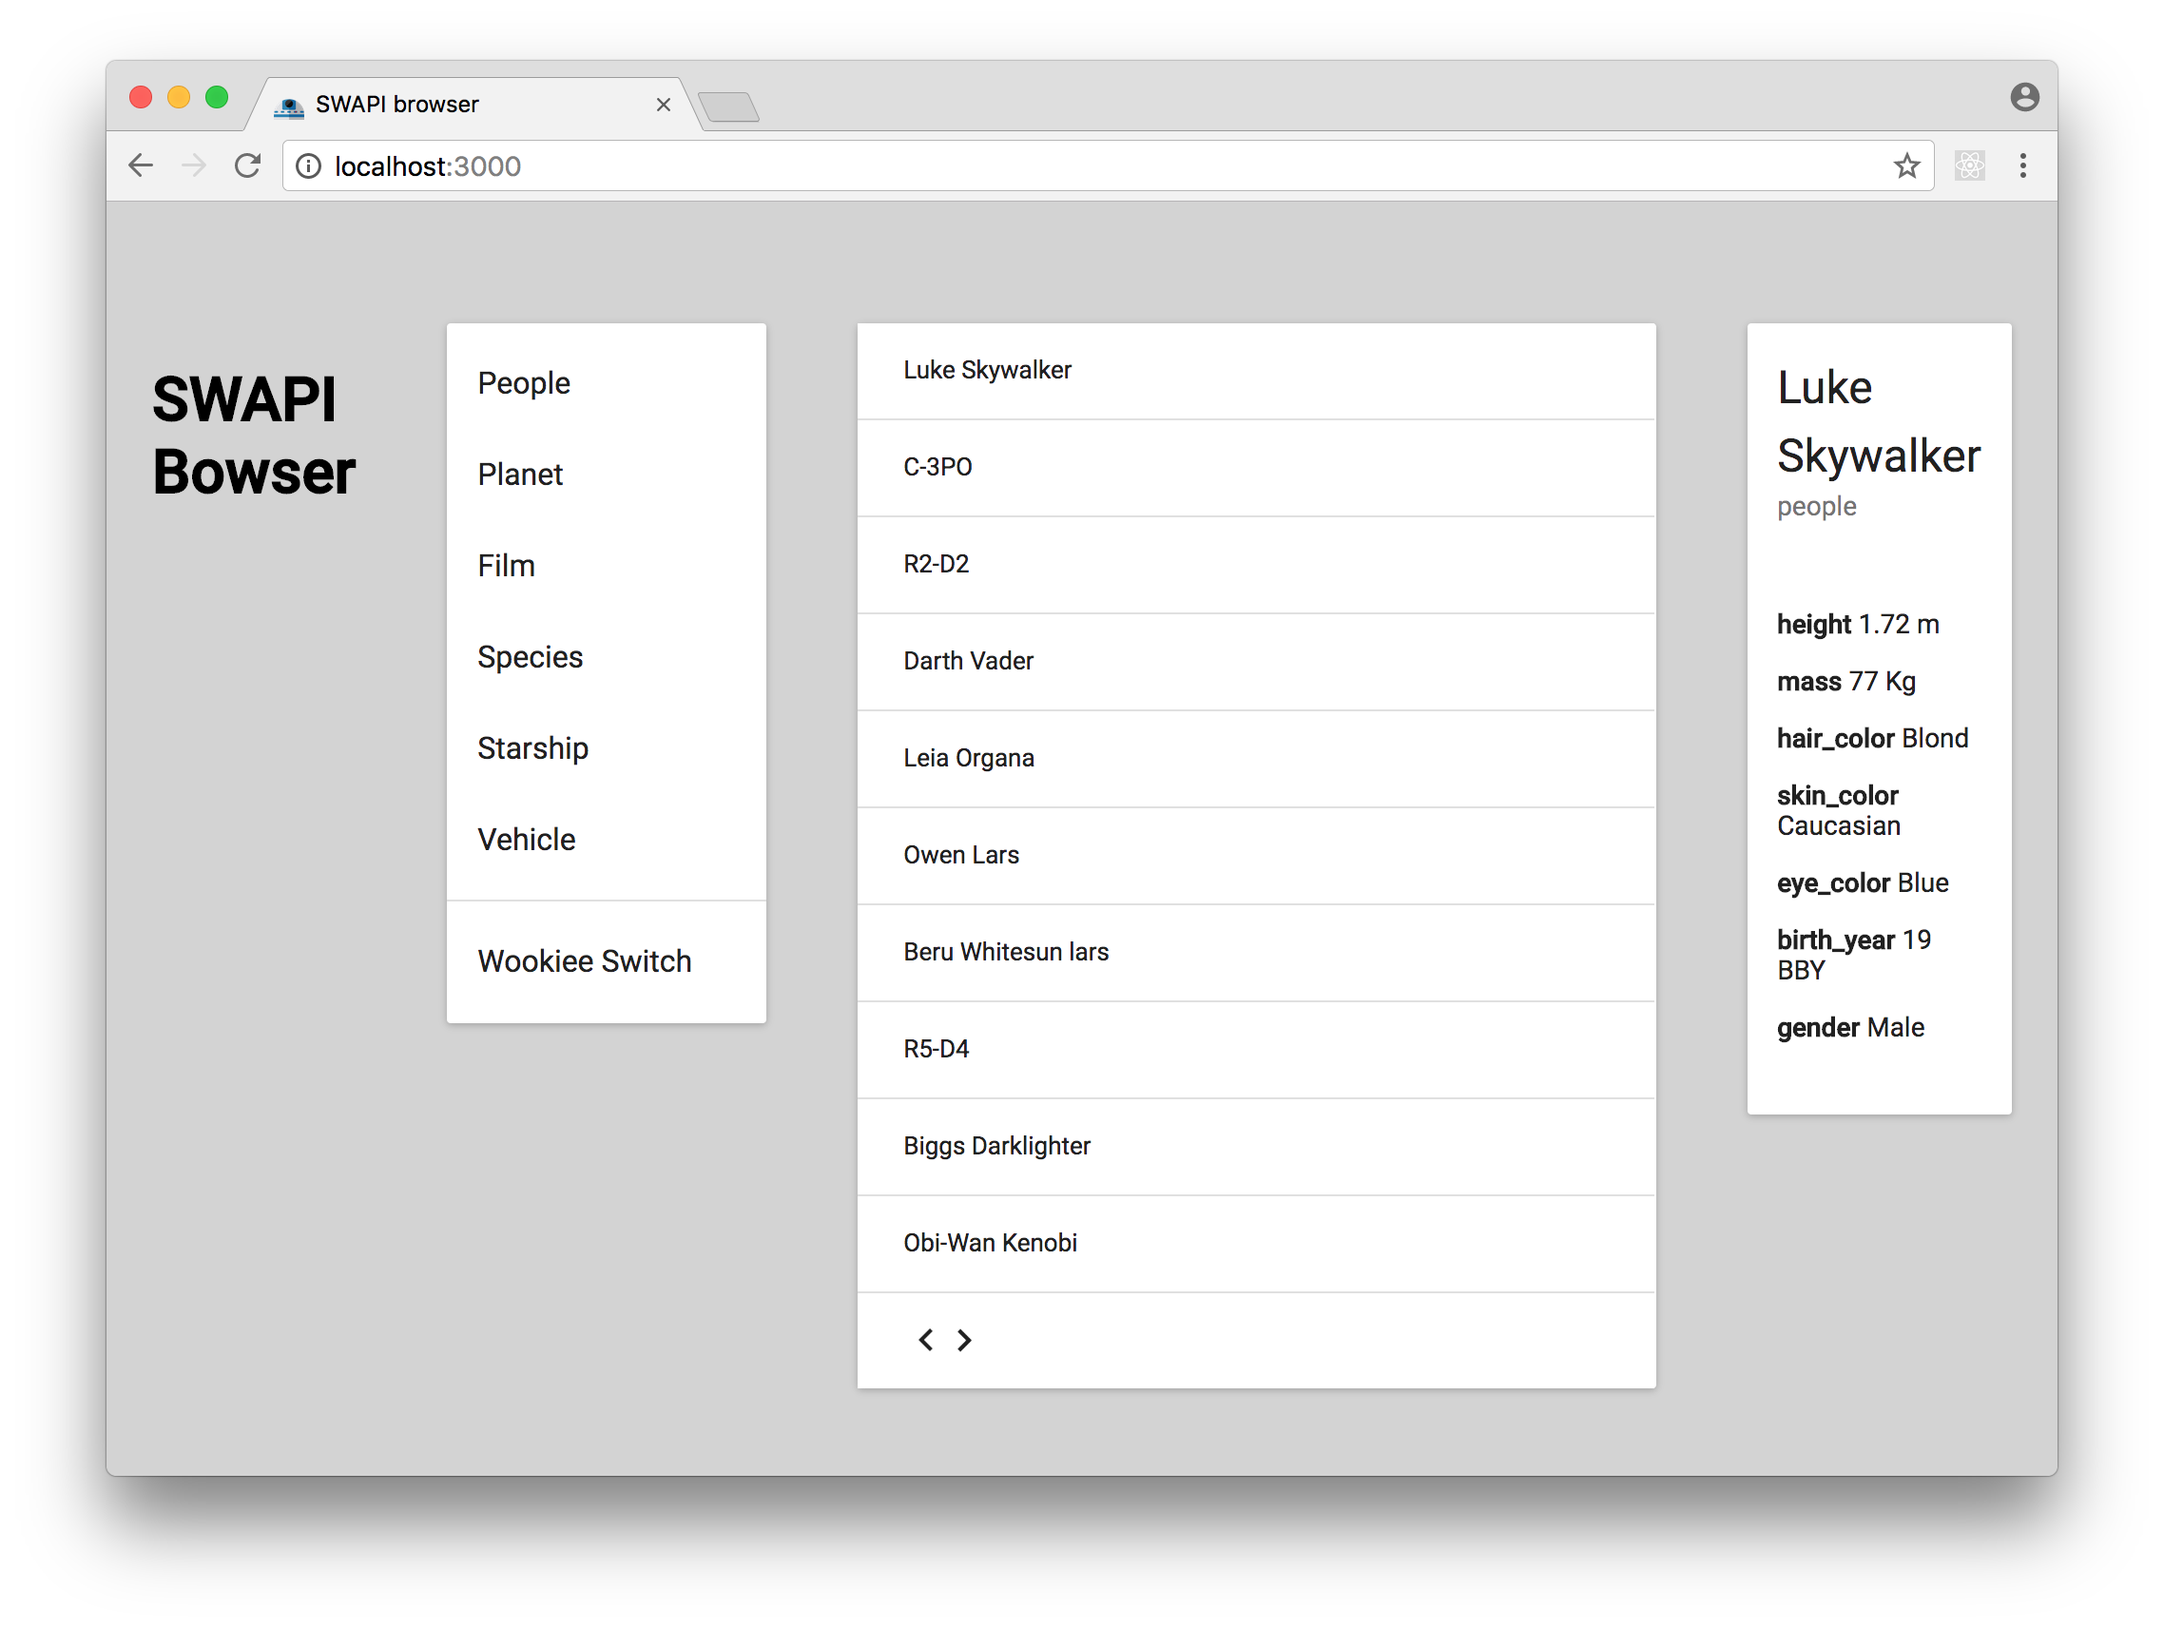
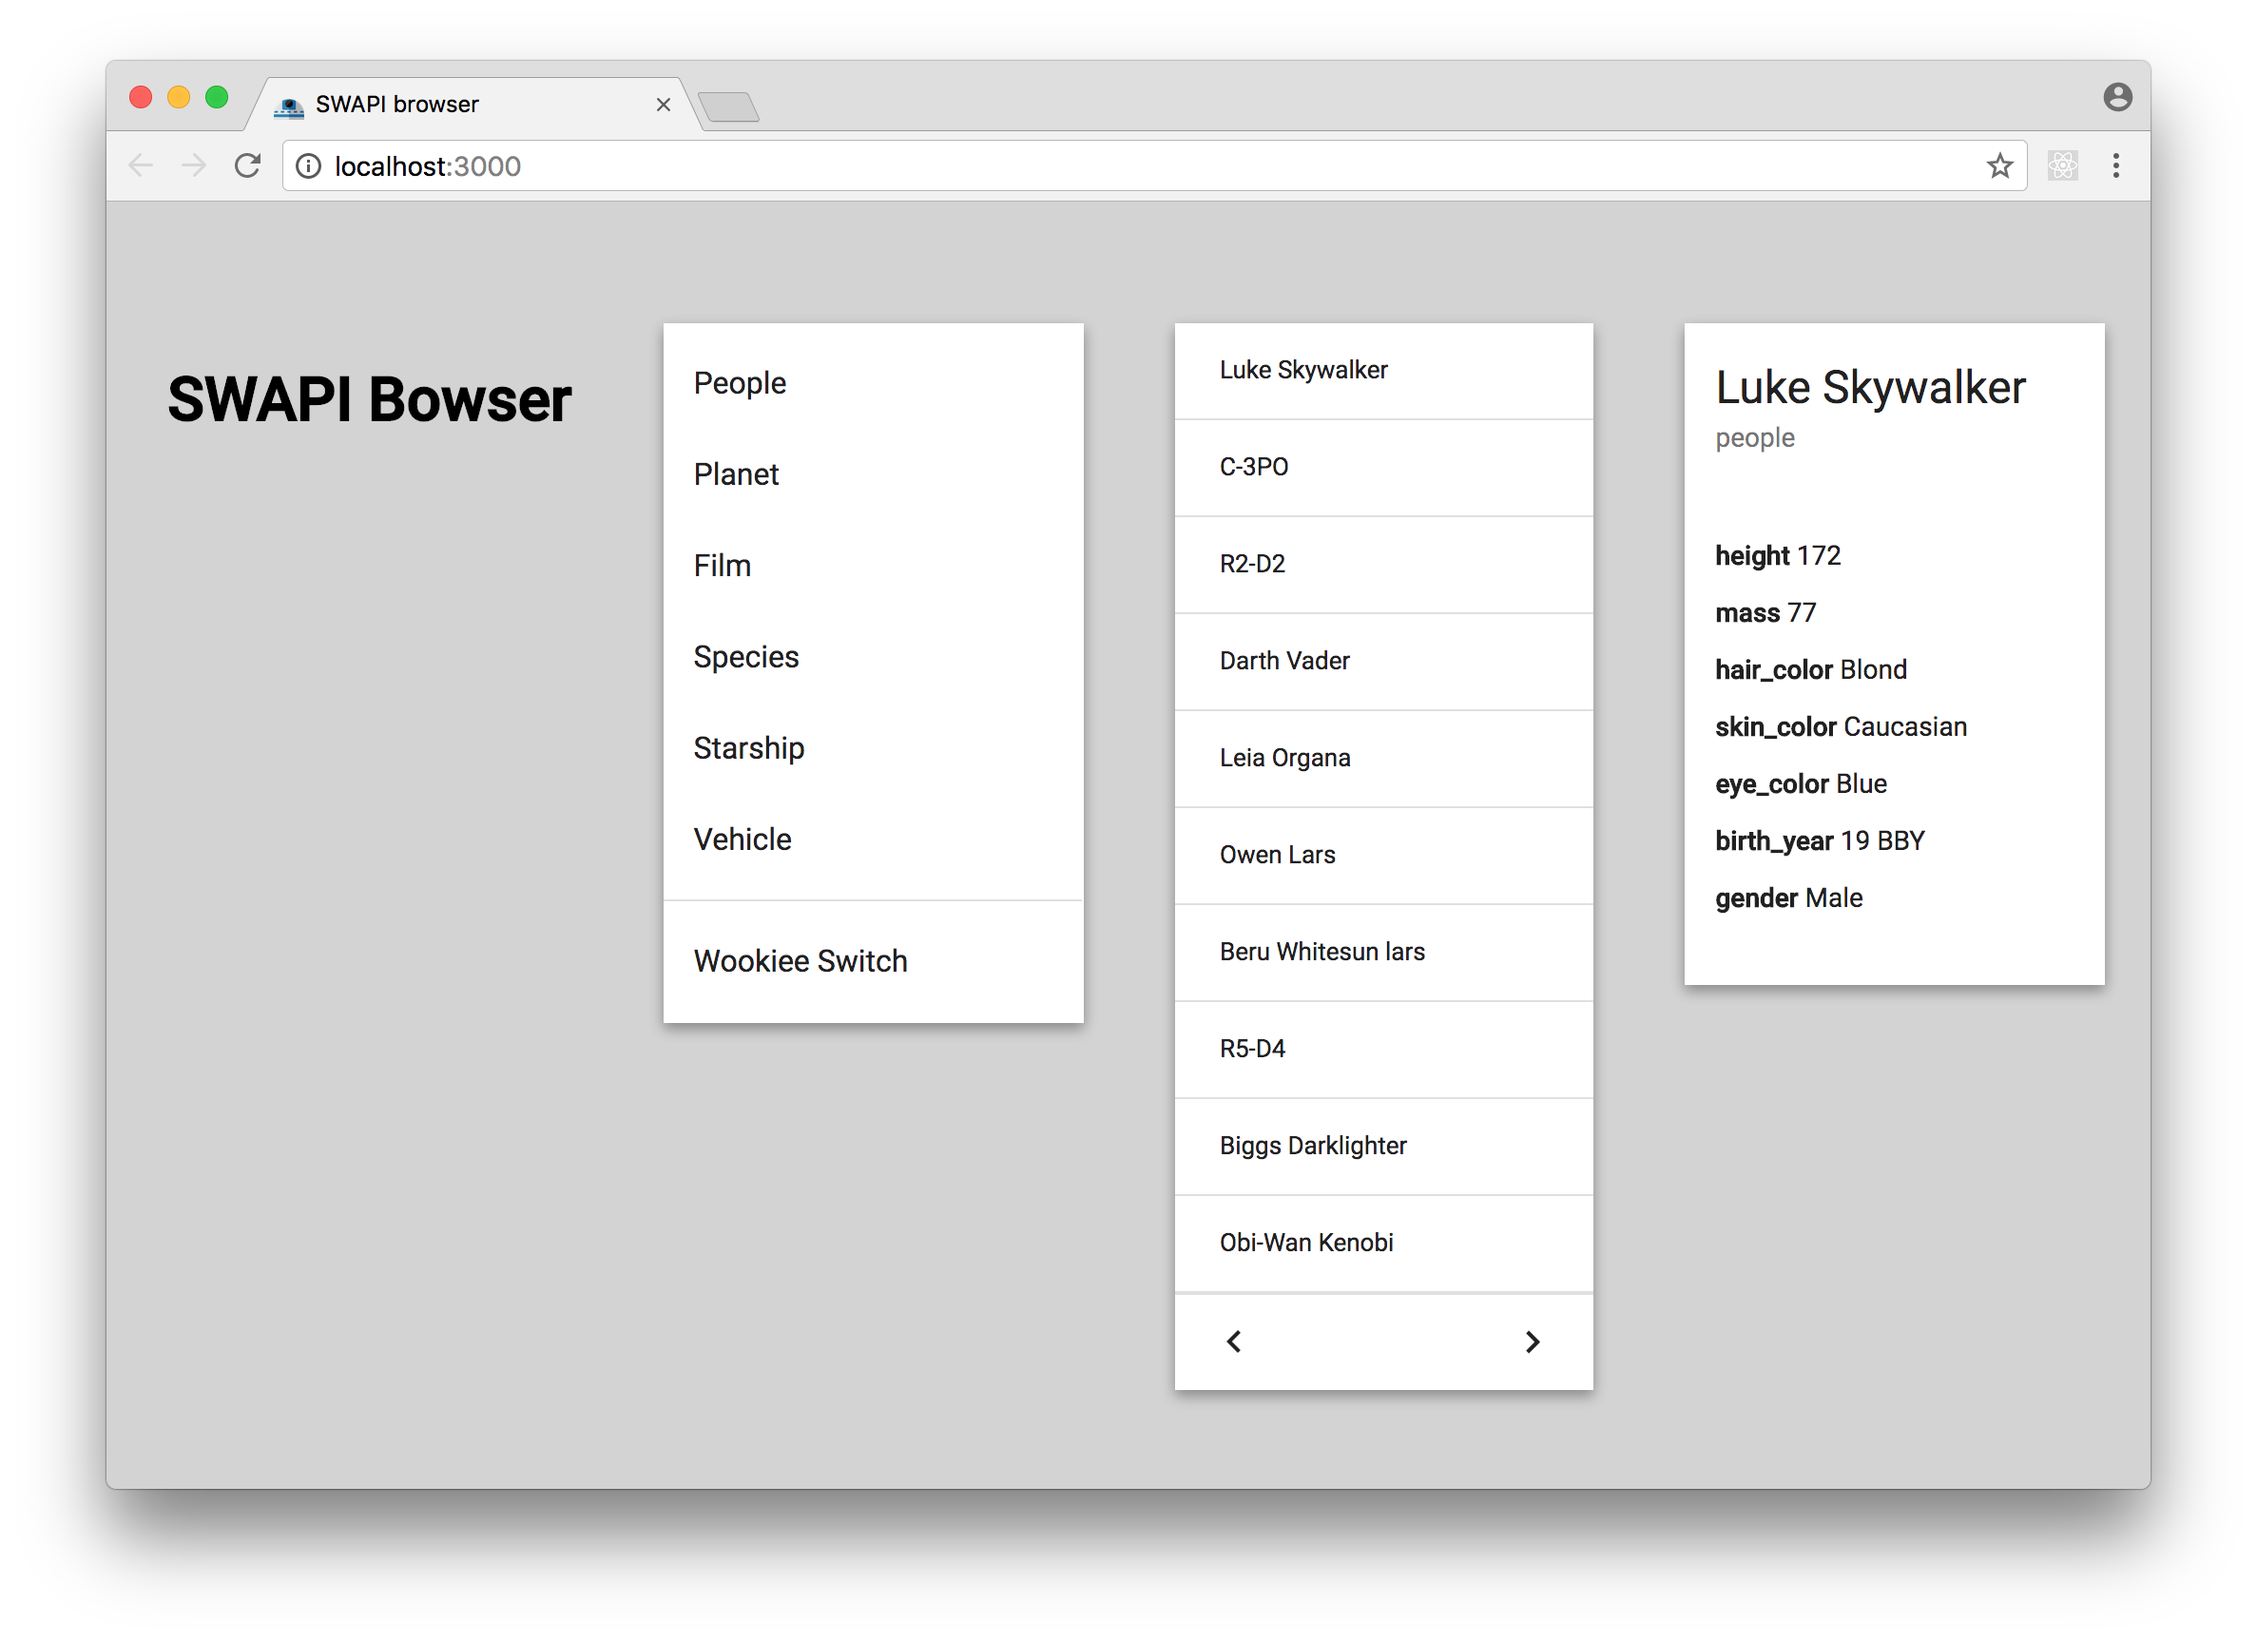
refactor classes

Changed region(s): [[0.0624, 0.1857, 0.9359, 0.8668], [0.0312, 0.031, 0.967, 0.1238], [0.9359, 0.031, 0.967, 0.0619]]

diff --git a/src/App.js b/src/App.js
@@ -4,10 +4,10 @@ import MuiThemeProvider from 'material-ui/styles/MuiThemeProvider';
 
 import AppMenu from './AppMenu';
 import AppTitle from './AppTitle';
-import DataTable from './DataTable';
+import AppTable from './AppTable';
 import AppDetails from './AppDetails';
 
-const flexboxContainer={
+const flexboxContainerStyle={
   width:'100%',
   display: 'inline-flex',
   flexDirection: 'row',
@@ -22,7 +22,7 @@ const containersStyle={
   // borderbox?
   minWidth: '10em',
   maxWidth:'250px',
-  margin: '4em 1.5em 0em 1.5em',
+  margin: '4em 1.5em 1.5em 1.5em',
   flexGrow: '1',
   flexBasis:'0',
 }
@@ -34,11 +34,15 @@ class App extends Component {
   render() {
     return (
       <MuiThemeProvider>
-        <div style={flexboxContainer}>
-          <AppTitle containersStyle={containersStyle} rounded={rounded} zDepth={zDepth}/>
-          <AppMenu containersStyle={containersStyle} rounded={rounded} zDepth={zDepth}/>
-          <DataTable containersStyle={containersStyle} rounded={rounded} zDepth={zDepth}/>
-          <AppDetails containersStyle={containersStyle} rounded={rounded} zDepth={zDepth}/>
+        <div style={flexboxContainerStyle}>
+          <AppTitle
+            containersStyle={containersStyle} rounded={rounded} zDepth={zDepth}/>
+          <AppMenu
+            containersStyle={containersStyle} rounded={rounded} zDepth={zDepth}/>
+          <AppTable
+            containersStyle={containersStyle} rounded={rounded} zDepth={zDepth}/>
+          <AppDetails
+            containersStyle={containersStyle} rounded={rounded} zDepth={zDepth}/>
         </div>
       </MuiThemeProvider>
     );
@@ -46,3 +50,5 @@ class App extends Component {
 }
 
 export default App;
+
+//TODO pass the containerStyle directly here ?

diff --git a/src/AppMenu.js b/src/AppMenu.js
@@ -2,8 +2,11 @@ import React, { Component } from 'react';
 
 import Paper from 'material-ui/Paper';
 import Menu from 'material-ui/Menu';
-import MenuItem from 'material-ui/MenuItem';
 import Divider from 'material-ui/Divider';
+
+import { categories } from './constants';
+import AppMenuItem from './AppMenuItem';
+import AppMenuWookieeSwitch from './AppMenuWookieeSwitch';
 
 const style = {
   maxWidth: '100%',
@@ -11,18 +14,18 @@ const style = {
 
 class AppMenu extends Component {
   render() {
+
+  	const menuCategories = categories.map((categorie, index) =>
+  		<AppMenuItem key={index} categorie={categorie}/>
+  	);
+
     return (
       <div style={this.props.containersStyle}>
 		    <Paper rounded={this.props.rounded} zDepth={this.props.zDepth}>
 		      <Menu style={style}>
-		        <MenuItem primaryText="People" />
-						<MenuItem primaryText="Planet" />
-						<MenuItem primaryText="Film" />
-						<MenuItem primaryText="Species" />
-						<MenuItem primaryText="Starship" />
-						<MenuItem primaryText="Vehicle" />
+		      	{menuCategories}
        			<Divider />
-						<MenuItem primaryText="Wookiee Switch" disabled={true}/>
+            <AppMenuWookieeSwitch />
 		      </Menu>
 		    </Paper>
       </div>

diff --git a/src/AppTable.js b/src/AppTable.js
@@ -1,0 +1,38 @@
+import React, { Component } from 'react';
+
+import {Table, TableBody, TableFooter, TableRow} from 'material-ui/Table';
+import Paper from 'material-ui/Paper';
+
+import MookData from './MookData';
+import AppTableEntrie from './AppTableEntrie';
+import AppTableButtons from './AppTableButtons';
+
+class AppTable extends Component {
+  render() {
+
+		const Entries = MookData.results.map((entrie, index) =>
+	  	<AppTableEntrie key={index} entrie={entrie}/>
+		);
+
+    return (
+      <div style={this.props.containersStyle}>
+      	<Paper rounded={this.props.rounded} zDepth={this.props.zDepth}>
+				  <Table>
+				  	<TableBody displayRowCheckbox={false} >
+				  		{Entries}
+				    </TableBody>
+				 		<TableFooter adjustForCheckbox={false}>
+				 			<TableRow>
+				 				<AppTableButtons />
+				 			</TableRow>
+				 		</TableFooter>
+				   </Table>
+				</Paper>
+      </div>
+    );
+  }
+}
+
+export default AppTable;
+
+//<IconButton iconClassName="muidocs-icon-custom-github" />

diff --git a/src/AppTableButtons.js b/src/AppTableButtons.js
@@ -1,0 +1,34 @@
+import React, { Component } from 'react';
+
+import {TableRowColumn} from 'material-ui/Table';
+import IconButton from 'material-ui/IconButton';
+import {HardwareKeyboardArrowLeft, HardwareKeyboardArrowRight} from 'material-ui/svg-icons/index'
+
+const arrowsStyle = {
+}
+
+const TableRowColumnStyle = {
+	display:'flex',
+ 	flexDirection: 'row',
+ 	flexWrap: 'nowrap',
+  justifyContent: 'space-between',
+  paddingLeft: '0.6em',
+  paddingRight: '0.6em'
+}
+
+class AppTableButtons extends Component {
+  render() {
+    return (
+			<TableRowColumn style={TableRowColumnStyle}>
+		    <IconButton style={arrowsStyle}>
+		    	<HardwareKeyboardArrowLeft />
+		    </IconButton>
+		    <IconButton style={arrowsStyle}>
+		    	<HardwareKeyboardArrowRight />
+		    </IconButton>
+			</TableRowColumn>
+    );
+  }
+}
+
+export default AppTableButtons;

diff --git a/src/AppDetails.js b/src/AppDetails.js
@@ -9,8 +9,8 @@ class AppDetails extends Component {
       	<Card rounded={this.props.rounded} zDepth={this.props.zDepth}>
       	  <CardTitle title="Luke Skywalker" subtitle="people" />
 		      <CardText>
-			      <p><b>height</b> 1.72 m</p>
-			      <p><b>mass</b> 77 Kg</p>
+			      <p><b>height</b> 172</p>
+			      <p><b>mass</b> 77</p>
 			      <p><b>hair_color</b> Blond</p>
 			      <p><b>skin_color</b> Caucasian</p>
 			      <p><b>eye_color</b> Blue</p>
@@ -24,3 +24,5 @@ class AppDetails extends Component {
 }
 
 export default AppDetails;
+
+//TODO use material ui lists ?

diff --git a/src/AppMenuWookieeSwitch.js b/src/AppMenuWookieeSwitch.js
@@ -1,0 +1,17 @@
+import React, { Component } from 'react';
+
+import MenuItem from 'material-ui/MenuItem';
+
+const style = {
+};
+
+class AppMenuWookieeSwitch extends Component {
+  render() {
+    return (
+		      <MenuItem style={style} primaryText='Wookiee Switch' />
+    );
+  }
+}
+
+export default AppMenuWookieeSwitch;
+//TODO fix divider

diff --git a/src/AppTableEntrie.js b/src/AppTableEntrie.js
@@ -1,0 +1,15 @@
+import React, { Component } from 'react';
+
+import {TableRow, TableRowColumn} from 'material-ui/Table';
+
+class AppTableEntrie extends Component {
+  render() {
+    return (
+      <TableRow>
+				<TableRowColumn>{this.props.entrie.name}</TableRowColumn>
+		  </TableRow>
+    );
+  }
+}
+
+export default AppTableEntrie;

diff --git a/src/AppMenuItem.js b/src/AppMenuItem.js
@@ -1,0 +1,17 @@
+import React, { Component } from 'react';
+
+import MenuItem from 'material-ui/MenuItem';
+
+const style = {
+};
+
+class AppMenuItem extends Component {
+  render() {
+    return (
+		      <MenuItem style={style} primaryText={this.props.categorie} />
+    );
+  }
+}
+
+export default AppMenuItem;
+//TODO fix divider

diff --git a/src/AppTitle.js b/src/AppTitle.js
@@ -1,10 +1,14 @@
 import React, { Component } from 'react';
 
+const titleStyle = {
+	textAlign:'right'
+}
+
 class AppTitle extends Component {
   render() {
     return (
       <div style={this.props.containersStyle}>
-        <h1>SWAPI Bowser</h1>
+        <h1 style={titleStyle}>SWAPI Bowser</h1>
       </div>
     );
   }

diff --git a/src/constants.js b/src/constants.js
@@ -1,0 +1,8 @@
+export const categories = [
+  'People',
+  'Planet',
+  'Film',
+  'Species',
+  'Starship',
+  'Vehicle'
+]

diff --git a/README.md b/README.md
@@ -14,8 +14,6 @@ Your app should browse the API resources in a data table(pagination) with a brie
 
 # Notes
 
-https://github.com/search?q=swapi+react+Material&ref=searchresults&type=Code&utf8=%E2%9C%93
-
 "If your React app uses AJAX to fetch initial data from an API, then componentDidMount is the place to make that AJAX call."
 
 https://fr.pinterest.com/camillegabrieli/data-tables/
